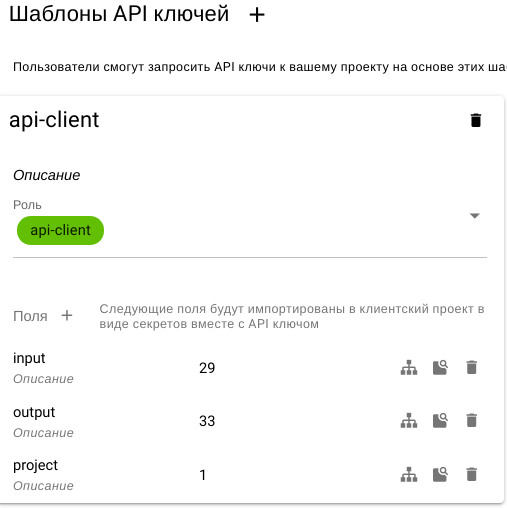
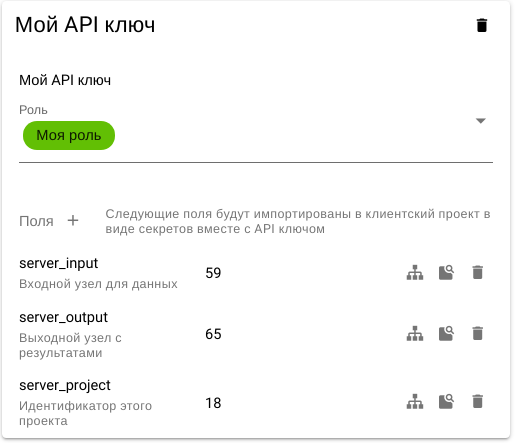
Add api section

diff --git a/src/.vuepress/config.js b/src/.vuepress/config.js
@@ -62,6 +62,7 @@ module.exports = {
             '/desc/project_role',
             '/desc/project_user',
             '/desc/secrets',
+            '/desc/api_keys',
             '/desc/executor',
             '/desc/s3',
           ],

diff --git a/src/desc/api_keys.md b/src/desc/api_keys.md
@@ -1,0 +1,187 @@
+# API ключи
+
+**API ключ** - уникальный jWT идентификатор для программного доступа к проекту согласно разрешениям, которые определены в заданной ему при создании [роли](./project_role) проекта.
+
+**Шаблон API ключа** - частично сформированный API ключ без указания конкретного пользователя. Используется для быстрого создания API ключа по запросу пользователя.
+
+![API keys panel](/images/common/api_keys.png)
+
+Структура панели:
+
+- Панель управления
+  - <span class="iconify-inline" data-icon="mdi:plus"></span> кнопка добавления нового шаблона API ключа
+- Список [панелей плиток](#плитка-шаблона) шаблонов API ключей
+- <span class="iconify-inline" data-icon="mdi:account-alert"></span> Запросы на получение API ключа
+
+## Плитка шаблона
+
+![API key panel](/images/common/api_keys_panel.png)
+
+1. Редактируемое название
+2. Редактируемое описание
+3. Редактируемое значение присвоенной роли
+4. <span class="iconify-inline" data-icon="mdi:delete"></span> Добавление информационного поля
+   ::: tip <span class="iconify" data-icon="mdi:information" style="color: #42b983; font-size: 24px;"></span>
+   Информационные поля импортируются в клиентский проект в виде [секретов](./secrets) вместе с API ключом и необходимы для предоставления пользователю ключа информации об его основных параметрах при его [использовании](#использование-ключа).
+
+   Рекомендуются добавлять следующий информационные поля:
+
+   - Идентификатор проекта - идентификатор текущего проекта
+   - Идентификатор входного узла - узел, в который необходимо отправлять пакеты с данными
+   - Идентификатор выходного узла - узел, из которого необходимо забирать пакеты с результатом.
+
+5. Редактируемое название информационного поля
+6. Редактируемое описание информационного поля
+7. Редактируемое значение информационного поля
+8. <span class="iconify-inline" data-icon="mdi:sitemap"></span> Вставка идентификатора проекта в качестве значения поля
+9. <span class="iconify-inline" data-icon="mdi:feature-search"></span> Вставка идентификатора выбранного узла в качестве значения поля
+10. <span class="iconify-inline" data-icon="mdi:delete"></span> Удаление поля
+11. <span class="iconify-inline" data-icon="mdi:menu-down"></span> Выбор роли
+12. <span class="iconify-inline" data-icon="mdi:delete"></span> Удаление шаблона
+
+## Создание шаблона
+
+- Напротив надписи **Шаблоны API ключей** нажать на кнопку <span class="iconify-inline" data-icon="mdi:plus"></span> и в диалоговом окне ввести уникальное имя нового шаблона, выбрать роль и нажать кнопку **СОЗДАТЬ**.
+
+  ![Add API](/images/common/api_keys_add.png)
+
+- В новой плитке шаблона добавить информационные поля (названия произвольные)
+
+  - Идентификатор проекта - идентификатор текущего проекта
+  - Идентификатор входного узла - узел, в который необходимо отправлять пакеты с данными
+  - Идентификатор выходного узла - узел, из которого необходимо забирать пакеты с результатом.
+
+  ![Add Information field](/images/common/api.png)
+
+## Запрос ключа
+
+В проекте перейти в раздел <span class="iconify-inline" data-icon="mdi:information"></span>**О проекте** и в секции <span class="iconify-inline" data-icon="mdi:shield-key"></span>**API ключи** на плитке необходимого API нажать кнопку **ЗАПРОСИТЬ**.
+
+![API request](/images/common/api_request.png)
+
+Плитка API ключа примет следующий вид:
+
+![API requested](/images/common/api_wait.png)
+
+Далее следует ожидать подтверждения запроса со стороны владельца проекта, на электронную почту которого будет выслано соответстующее уведомление о запросе.
+
+После того, как владелец проекта [одобрит запрос](#подтверждение-запроса-ключа), будет получено электронное информационное письмо.
+
+![API request](/images/common/api_request_confirmed_letter.png)
+
+Плитка API ключа примет следующий вид:
+
+![API confirmed](/images/common/api_confirmed.png)
+
+## Подтверждение запроса ключа
+
+Владелец проекта на электронную почту получит письмо с уведомлением о запросе.
+
+![API request letter](/images/common/api_request_letter.png)
+
+Владельцу необходимо перейти в соответствующий проект в раздел <span class="iconify-inline" data-icon="mdi:shield-key"></span>**API ключи** и в секции **Запросы** нажать на кнопку подтверждения запроса.
+
+![API request confirmation](/images/common/api_confirmation.png)
+
+Ознакомиться с статистикой использования ключа можно в разделе <span class="iconify-inline" data-icon="mdi:script-text-key"></span>[СТАТИСТИКА ИСПОЛЬЗОВАНИЯ](#статистика-использования-ключа).
+
+## Импорт ключа
+
+- [Запросить](#запрос-ключа) API ключ и дождать подтверждения запроса.
+
+- Перейти в проект, из которого будет осуществляться програмный доступ, и в нем перейти в раздел <span class="iconify-inline" data-icon="mdi:eye-off"></span>**Секреты**.
+
+- Открыть <span class="iconify-inline" data-icon="mdi:key-plus"></span> меню добавления API ключа и выбрать необходимый ключ.
+
+  ![API confirmed](/images/common/api_import.png)
+
+- Ввести префикс для создаваемых секретов.
+
+  ![API insert](/images/common/api_insert.png)
+
+- Будет создан секрет с токеном ключа _префикс_\_**token**, а также секреты для всех информационных панелей ключа.
+
+  ![API inserted](/images/common/api_inserted.png)
+
+- Разрешить доступ к секретам узлам из которых будет осуществляться доступ.
+
+  В поле **Узлы** соответствующего секрета нажать на кнопку <span class="iconify-inline" data-icon="mdi:magnify"></span> и выбрать необходимые узлы.
+
+## Использование ключа
+
+- [Импортировать ключ в проект](#импорт-ключа)
+- Перейти в раздел <span class="iconify-inline" data-icon="mdi:sitemap"></span>**Граф** и в вкладке [Файлы](/docs/desc/nodes.html#фаилы) узла, у которого есть доступ к секрету API ключа в программном модуле или скрипте необходимо использовать следующий код.
+
+```python
+#!/usr/bin/env python
+from rndflow import job
+from rndflow.server import Server
+from datetime import datetime, timedelta
+from time import sleep
+
+globals().update(job.load())
+
+server = Server(api_key=job.secret('project_server_token'))
+
+# Get secrets
+project = job.secret('project_server_project')
+input_node = job.secret('project_server_input')
+output_node = job.secret('project_server_output')
+
+# Get last data layer from the server
+layer = server.get(f'/projects/{project}/data_layers/last')
+
+# Post new package to the start node
+p = server.post(f'/projects/{project}/nodes/{input_node}/packages',
+                json=dict(
+                    data_layer_id=layer['id'],
+                    label='from_client',
+                    fields=dict(size=size, span=span)))
+
+print('Sent workload to the server')
+
+#---------------------------------------------------------------------------
+# Poll server to get the resulting package.
+# This allows to exit on timeout.
+#---------------------------------------------------------------------------
+print('Waiting for the results...')
+timeout = datetime.now() + timedelta(minutes=5)
+
+ready = False
+while not ready and datetime.now() < timeout:
+    page = server.post(f'/projects/{project}/nodes/{output_node}/packages/search',
+        params=dict(
+            page_size=1
+            ),
+        json=dict(
+            data_layer_id=layer['id'],
+            master_id=p['id']
+            ))
+    for result in page['items']:
+        ready = True
+        break
+    else:
+        sleep(5)
+
+if not ready:
+    raise Exception('Timeout!')
+
+print('Done')
+
+files = server.get(f'/projects/{project}/nodes/{output_node}/packages/{result["id"]}/files')
+
+def download_file(f):
+    return lambda path: server.download(f, path)
+
+job.save_package(
+    label='result',
+    fields={f['name'] : f['value'] for f in result['fields']},
+    files={f['name']: download_file(f) for f in files}
+    )
+```
+
+# Статистика использования ключа
+
+Статистика использования ключа доступна в разделе <span class="iconify-inline" data-icon="mdi:script-text-key"></span> **СТАТИСТИКА ИСПОЛЬЗОВАНИЯ**.
+
+![API request letter](/images/common/api_billing.png)

diff --git a/src/desc/project.md b/src/desc/project.md
@@ -15,7 +15,7 @@
 - [Секреты](./secrets) - набор секретов для использовании в узлах при их исполнении
 - [Интерфейсы](TODO) - графические интерфейсы управления графом
 - [Разрешения](#разрешения) - набор прав доступа
-- [API-ключи](#API-ключи) - набор API для внешнего доступа к проекту
+- [API-ключи](./api_keys) - набор API для внешнего доступа к проекту
 - [Слои данных](/docs/intro/definitions#datalayer)
 - [S3 сервер](/docs/desc/s3) - подключенное к проекту S3 хранилище
 - [Cервер расчетов](/docs/desc/executor) - подключенный к проекту основной сервер расчетов
@@ -128,5 +128,3 @@
 Вкладка **ПОЛЬЗОВАТЕЛИ** - управление [пользователями](/docs/desc/project_user)
 
 ![Project users](/images/common/permissions_users.png)
-
-## API-ключи

diff --git a/src/desc/dashboard.md b/src/desc/dashboard.md
@@ -8,6 +8,7 @@
 
 - <span class="iconify-inline" data-icon="mdi:account"></span> Панель пользователя (Пользователь)
 - Список плиток доступных рабочих пространств (Рабочие пространства)
+- Список плиток приглашений в рабочие пространства (Приглашения в рабочие пространства)(только при наличии приглашения)
 - Список плиток доступных проектов (Проекты)
 
 Общий вид панели управления:

diff --git a/src/intro/definitions.md b/src/intro/definitions.md
@@ -8,7 +8,7 @@
 
 ![Projects](./images/projects.png)
 
-[Проект-сервис](/docs/desc/project)- проект с разрешенным доступом через открытое API.
+[API ключ](/docs/desc/api_keys)- уникальный jWT идентификатор для программного доступа к проекту согласно разрешениям, которые определены в заданной ему при создании [роли](/docs/desc/project_role) проекта.
 
 ![API](/images/common/api.png)
 
